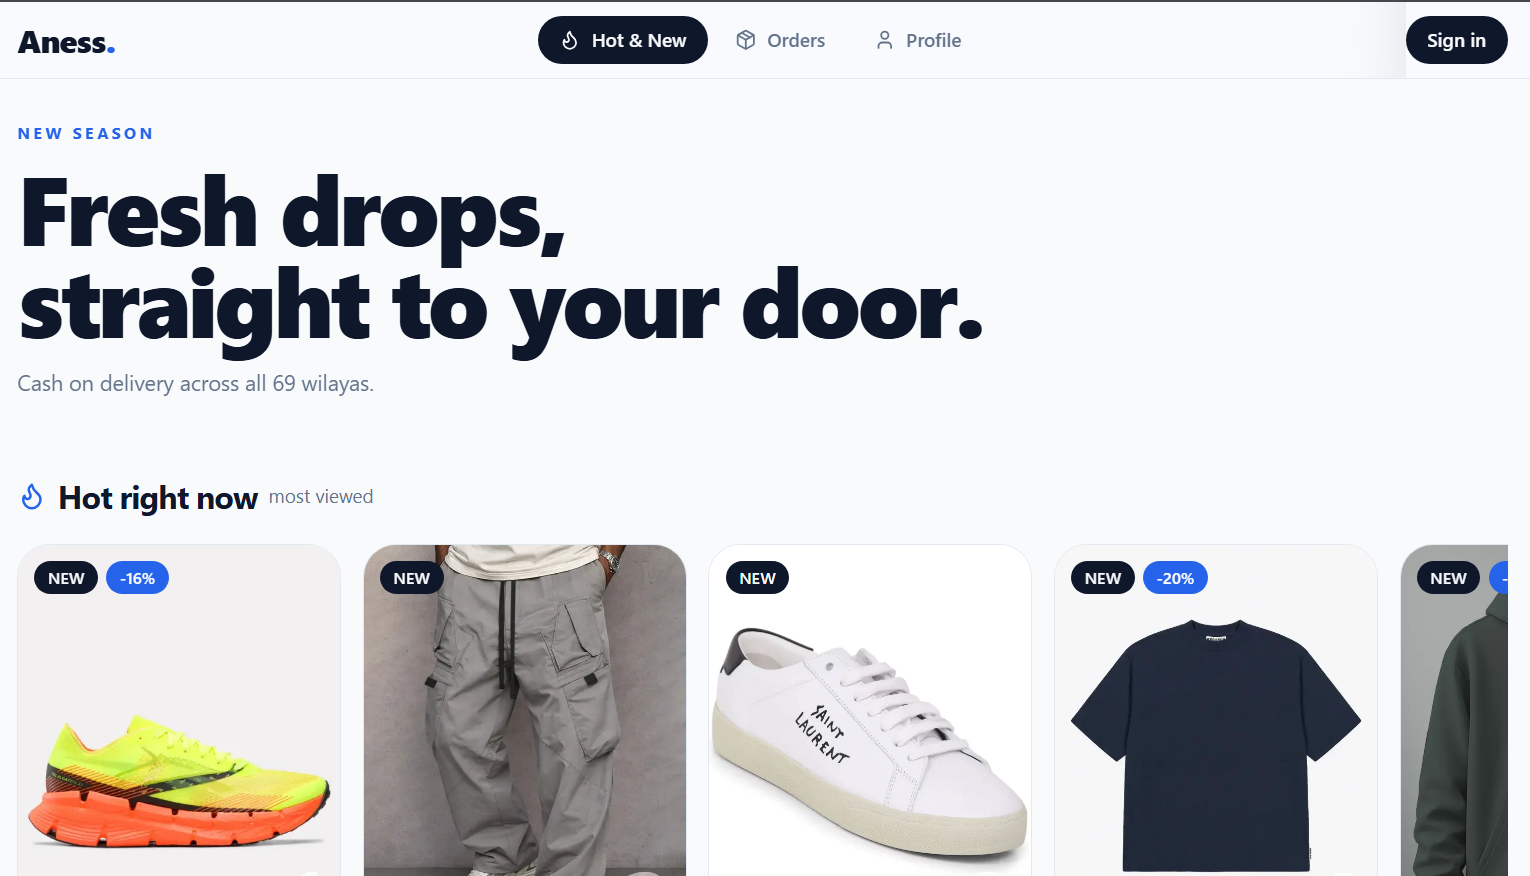
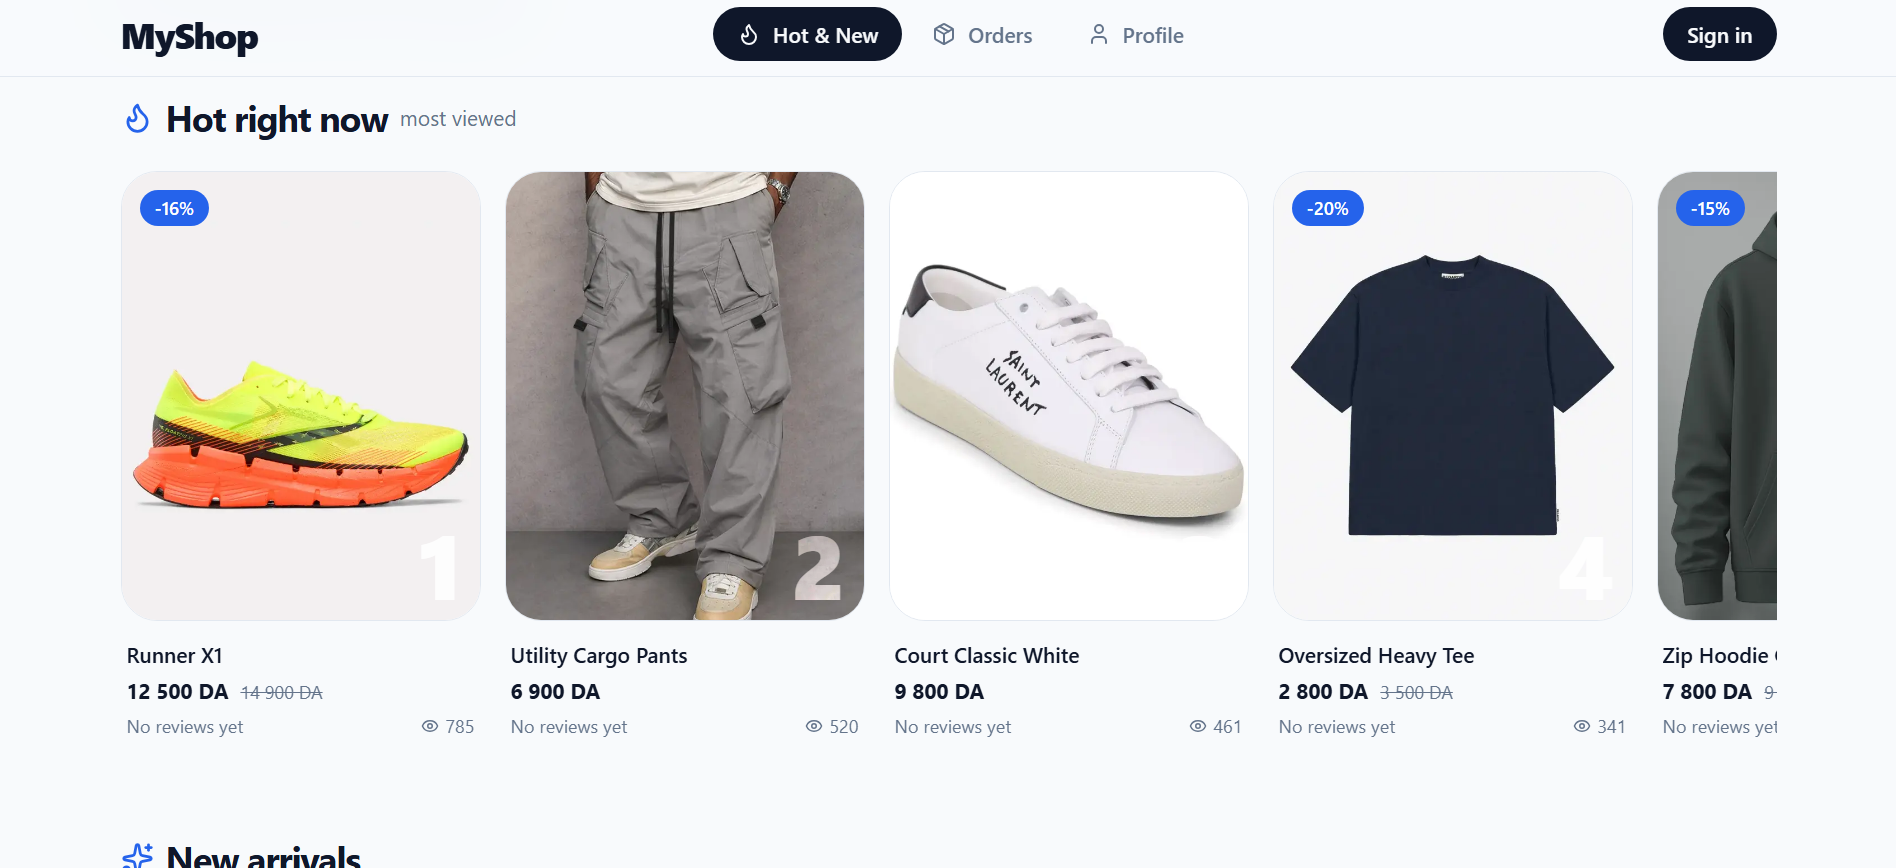
changing project image

diff --git a/src/i18n.js b/src/i18n.js
@@ -30,8 +30,8 @@ const fr = {
   Platform: 'Plateforme',
   Github: 'Github',
   Article: 'Article',
-  'Online shop with cash on delivery across all 69 wilayas.':
-    'Boutique en ligne avec paiement à la livraison dans les 69 wilayas.',
+  'Online shop with cash on delivery':
+    'Boutique en ligne avec paiement à la livraison',
   'Fish catch log with photo, species, location, weight and condition. Import and export in CSV and JSON.':
     'Journal de captures de poissons avec photo, espèce, lieu, poids et état. Import et export en CSV et JSON.',
 

diff --git a/src/projects.jsx b/src/projects.jsx
@@ -10,10 +10,10 @@ function ExternalIcon() {
 // Fill in `stack` for Harbor Log. The line is hidden when it is missing.
 const otherProjects = [
   {
-    name: 'Aness Shop',
+    name: 'MyShop',
     href: 'https://shop-pi-ten-72.vercel.app/',
     img: 'ecom.png',
-    desc: 'Online shop with cash on delivery across all 69 wilayas.',
+    desc: 'Online shop with cash on delivery',
     stack: 'Next.js, Supabase',
   },
   {

diff --git a/src/index.css b/src/index.css
@@ -5,8 +5,8 @@
   --fourth-font:"JetBrains Mono", monospace;
   --third-font: "Hero New", serif;
 
-/* --background: #ffffff; */
---background:  #feffea;
+--background: #ffffff;
+/* --background:  #feffea; */
   --text-primary: #001233;
   --border: #979dac;  
   --text-secondary: #33415c;
